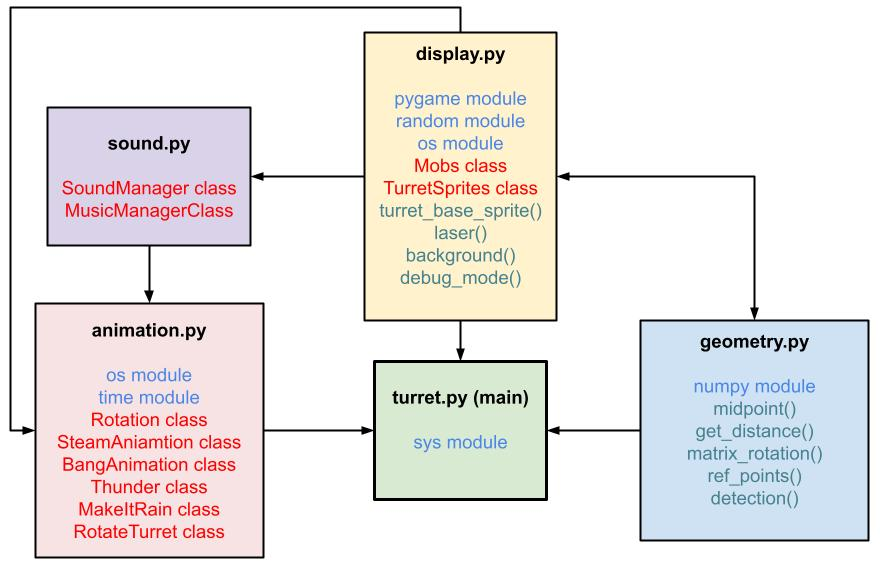
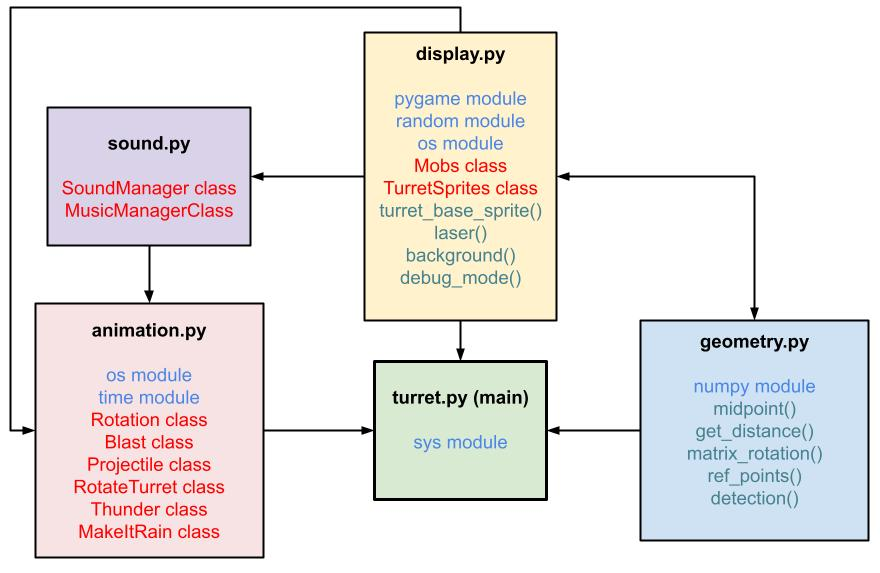
Update

Changed region(s): [[0.0614, 0.7417, 0.2761, 0.9494]]

diff --git a/functions/animation.py b/functions/animation.py
@@ -45,6 +45,7 @@ class Rotation():
       self.angle += self.rotation_speed_fire
       self.current_speed = self.rotation_speed_fire
     
+    # WORK IN PROGRESS
     if self.mode == "retract": # Ready to retract
         self.angle += self.rotation_speed_fire
         self.current_speed = self.rotation_speed_fire
@@ -56,6 +57,7 @@ class Rotation():
 rotation = Rotation()
 
 def get_rotation():
+    """ Allows other modules to retrieve the rotation object """
     return rotation
 
 # ---------- <WORK IN PROGRESS> ----------
@@ -175,6 +177,8 @@ def steam_jet(screen:pygame.surface.Surface, refs:dict,
 # ---------- </WORK IN PROGRESS> ----------
 
 class Blast(pygame.sprite.Sprite):
+    """ Blast animation """
+    
     def __init__(self):
         pygame.sprite.Sprite.__init__(self)
         
@@ -182,8 +186,8 @@ class Blast(pygame.sprite.Sprite):
         self.nb_of_sprites = self.how_many_sprites(self.folder)
         
         self.images = []
-        self.blast_played = 0
-        self.blast_sound_played = 0
+        self.blast_played = 0 # Animation counter
+        self.blast_sound_played = 0 # Sound counter
         self.target_hit = False
         
         for num in range(1, self.nb_of_sprites+1):
@@ -196,7 +200,14 @@ class Blast(pygame.sprite.Sprite):
         self.rect = self.image.get_rect()
         self.counter = 0
     
-    def arrange(self, pos:tuple):
+    def positioning(self, pos:tuple):
+        """Place the center of the explosion at the coordinates 
+        of the currently targeted mob
+
+        Args:
+            pos: Coordinates of the center of the explosion
+            (tuple or Vector2)
+        """        
         self.rect.center = pos
     
     def update(self):
@@ -238,12 +249,22 @@ blast_group = pygame.sprite.Group()
 blast_anim = Blast()
 
 def blast_launcher(screen:pygame.surface.Surface):
-    blast_anim.arrange(mobs.in_target)
+    """Launching the blast animation.
+    
+    The animation is only launched at the precise moment when 
+    the projectile comes into contact with the targeted mob. 
+    The function is called in the fire_mode() function of 
+    the RotateTurret class.
+
+    Args:
+        screen: Main Pygame surface
+    """    
+    blast_anim.positioning(mobs.in_target)
     blast_group.draw(screen)
     blast_group.update()
     blast_group.add(blast_anim)
 
-class BangAnimation():
+class Projectile():
     """Projectile animation"""
     
     def __init__(self):
@@ -252,101 +273,217 @@ class BangAnimation():
         self.current_pos = None
         self.move_vector = None
         self.speed = 3
-        self.bang_played = 0 # Animation
-        self.vals_initialized = 0
-        self.bang_sound_played = 0
-        self.retract_sound_palayed = 0
+        self.bang_played = 0 # Animation counter
+        self.bang_sound_played = 0 # Sound counter
+        self.vals_initialized = 0 # Process counter
+        self.retract_sound_palayed = 0 # WORK IN PROGRESS 
     
     def init_vals(self, start:pygame.math.Vector2, 
              target:pygame.math.Vector2):
+        """Sets constructor attribute values, like the starting 
+        and ending point of the projectile as well as calculating 
+        the direction vector
+
+        Args:
+            start: Projectile starting point coordinates
+            target: Projectile target point coordinates
+        """
+        # Since this function will be called in a local loop of 
+        # the program (the fire_mode function of the RotateTurret 
+        # class), we ensure that the values are only initialized 
+        # once
         if self.vals_initialized < 1:
             self.start_point = start
             self.target_point = target
             self.current_pos = self.start_point
             self.move_vector = self.target_point - self.start_point
+            
+            # The magnitude of the vector is normalized to 1 
+            # because we are only interested in the direction.
             self.move_vector.normalize_ip()
+            
             self.vals_initialized = 1
+            
+            # The green value of the projectile's RGB varies in 
+            # color_jump steps during the animation
             self.green_val = 200
             self.color_jump = 20
     
     def animate(self, screen:pygame.surface.Surface, start:pygame.math.Vector2, 
              target:pygame.math.Vector2, mobsObject):
+        """Start of projectile animation
+
+        Args:
+            screen: Main Pygame surface
+            start: Projectile starting point coordinates
+            target: Projectile target point coordinates
+            mobsObject: Mobs object
+        """
+
+        # Initialization of the values necessary for establishing 
+        # the trajectory
         self.init_vals(start, target)
         
         if self.bang_played < 1:
-            if bang.bang_sound_played < 1:
+            # Play sound
+            if projectile.bang_sound_played < 1:
                 sounds.play_sound("fire")
-                bang.bang_sound_played += 1
+                projectile.bang_sound_played += 1
+                
+            # We vary the green value and set random values to 
+            # the projectile radius to add a flame effect
             self.green_val = (self.green_val + self.color_jump) % 255
             radius = random.randint(2,9)
+            
+            # Movement of the projectile according to the defined 
+            # vector and speed
             self.current_pos += self.move_vector * self.speed
+            
+            # Projectile display
             pygame.draw.circle(screen, (255,self.green_val,0), (int(self.current_pos.x), 
                 int(self.current_pos.y)), radius)
 
+            # The projectile has reached its destination, we add a 
+            # proximity margin to ensure that the point will not 
+            # be skipped
             if self.current_pos.distance_to(self.target_point) < 5:
-                self.bang_played = 1
+                self.bang_played = 1 # Animation counter
+                
+                # The targeted projectile is transformed into 
+                # debris so that the turret remains aligned until 
+                # the explosion animation ends
                 mobsObject.destroyed_mob()
+                
+                # Signal sent to the Blast class object to let it 
+                # know that the explosion can take place. The 
+                # fire_mode() function of the Rotate Turret class 
+                # will be responsible for launching it
                 blast_anim.target_hit = True
+                
+                # Play blast sound
                 if not sounds.in_playing("blast"):
                     sounds.play_sound("blast")
                     blast_anim.blast_sound_played+=1
 
-bang = BangAnimation()
+projectile = Projectile()
 
 class RotateTurret:
+    """Turns the turret according to the different rotation modes 
+    (sentinel, alert, fire). These modes are defined by the 
+    Rotation class"""
+    
     def __init__(self):
         self.turret_mode = None
         self.turret_image = None
         self.deploy_sound_played = 0
+    
+    def reset_states(self):
+        """Reset all state variables when resuming sentinel mode"""
         
-    def sentinel_mode(self, turretObject, mobsObject):
+        # Blast class
         blast_anim.target_hit = False
         blast_anim.blast_played = 0
         blast_anim.blast_sound_played = 0
-        bang.bang_sound_played = 0
-        steam_anim.steam_played = 0
-        bang.vals_initialized = 0
-        bang.bang_played = 0
-        self.deploy_sound_played = 0
-        mobsObject.in_target = None
         
+        # Projectile class
+        projectile.bang_sound_played = 0
+        projectile.vals_initialized = 0
+        projectile.bang_played = 0
+        
+        self.deploy_sound_played = 0
+        steam_anim.steam_played = 0 # WORK IN PROGRESS
+        
+    def sentinel_mode(self, turretObject, mobsObject):
+        """The turret is searching for a target
+
+        Args:
+            turretObject: TurretSprites object (from display module)
+            mobsObject: Mobs object (from display module)
+        """
+        self.reset_states() # Resetting all state variables
+        mobsObject.in_target = None # No target 
+        
+        # Play sentinel sound
         if not sounds.in_playing("sentinel"):
             sounds.play_sound("sentinel")
         
+        # Set turret sprite
         self.turret_image = turretObject.turret_sentinel
     
     def alert_mode(self, turretObject) -> None:
-        sounds.stop_sound("sentinel")
+        """The turret laser has detected a mob
+
+        Args:
+            turretObject: TurretSprites object (from display module)
+        """        
+        sounds.stop_sound("sentinel") # Stop sentinel sound
+        
+        # Play alert sound
         if not sounds.in_playing("alert"):
             sounds.play_sound("alert")
-            
+        
+        # Set turret sprite
         self.turret_image = turretObject.turret_alert
     
     def fire_mode(self, screen:pygame.surface.Surface, 
-                  turretObject, mobsObject, refs:dict) -> None: 
+                  turretObject, mobsObject, refs:dict) -> None:
+        """The turret cannon is aligned with the mob.
+        
+        The Rotation class sets the fire mode rotation speed 
+        to 0.0, i.e. the turret is stationary. This mode launches 
+        the projectile animation as well as the blast animation
+
+        Args:
+            screen: Main Pygame surface
+            turretObject: TurretSprites object (from display module)
+            mobsObject : Mobs object (from display module) 
+            refs (dict): All referential points
+        """
+        # Sounds to stop
         sounds.stop_sound("alert")
         sounds.stop_sound("sentinel")
+        
+        # Set turret sprite
         self.turret_image = turretObject.turret_fire
+        
+        # Play deploy sound
         if self.deploy_sound_played < 1:
             sounds.play_sound("deploy")
             self.deploy_sound_played+=1
         
+        # When the sound deploy is finished, the projectile 
+        # animation is started
         if not sounds.in_playing("deploy"):
-            #steam_jet(screen, refs, rotationObject)
-            bang.animate(screen, refs["cannon"], mobsObject.in_target, mobsObject)
+            #steam_jet(screen, refs, rotationObject) # WIP
+            projectile.animate(screen, refs["cannon"], mobsObject.in_target, mobsObject)
 
+        # The projectile has reached the coordinates of the mob, 
+        # the blast animation can be started
         if blast_anim.target_hit and blast_anim.blast_played < 1:
             blast_launcher(screen)
         
     def rotate(self, screen:pygame.surface.Surface, 
                turretObject,rotationObject:Rotation, 
                mobsObject, refs:dict) -> None:
+        """Rotates the turret according to the angle and speed 
+        determined by the Rotation class
+
+        Args:
+            screen: Main Pygame surface
+            turretObject: TurretSprites object (from display module)
+            rotationObject: Rotation object
+            mobsObject: Mobs object (from display module)
+            refs: All referential points
+        """        
         
+        # Get the main surface size
         WIDTH = screen.get_width()
         HEIGHT = screen.get_height()
         
+        # Get the rotation mode from the Rotation object
         self.turret_mode = rotationObject.mode
         
+        # Launching the function according to the rotation mode
         if self.turret_mode == "sentinel":
             self.sentinel_mode(turretObject, mobsObject)
         
@@ -357,14 +494,19 @@ class RotateTurret:
             self.fire_mode(screen, turretObject,
                            mobsObject, refs)
         
+        # Turret positioning
         turret_rect = self.turret_image.get_rect()
         turret_rect.center = (WIDTH//2, HEIGHT//2)
         
+        # Turret surface and rect rotation
         rotated_surface = pygame.transform.rotate(self.turret_image, rotationObject.angle)
         rotated_rect = rotated_surface.get_rect(center=turret_rect.center)
         
+        # Display
         screen.blit(rotated_surface, rotated_rect)
         
+        # The angle value is incremented by a value defined by 
+        # the actual Rotation class mode
         rotationObject.rotate()
 
 class Thunder():

diff --git a/functions/display.py b/functions/display.py
@@ -278,14 +278,22 @@ def background() -> pygame.surface.Surface:
     
     return background_img
 
-def seconds_to_hms(seconds):
-        hours, remainder = divmod(seconds, 3600)
-        minutes, seconds = divmod(remainder, 60)
+def seconds_to_hms(seconds:float) -> str:
+    """Convert seconds to hh:mm:ss format
 
-        # Formating
-        formatted_time = "{:02}:{:02}:{:06.3f}".format(int(hours), int(minutes), seconds)
+    Args:
+        seconds: Seconds value (time.time())
 
-        return formatted_time
+    Returns:
+        str: seconds in hh:mm:ss format
+    """    
+    hours, remainder = divmod(seconds, 3600)
+    minutes, seconds = divmod(remainder, 60)
+
+    # Formating
+    formatted_time = "{:02}:{:02}:{:06.3f}".format(int(hours), int(minutes), seconds)
+
+    return formatted_time
 
 def debug_mode(screen:pygame.surface.Surface, refs:dict,
                turret_base:pygame.rect.Rect, 

diff --git a/turret.py b/turret.py
@@ -10,7 +10,8 @@ from functions.sound import MusicManager
 pygame.init()
 
 # Main surface initialisation
-WIDTH, HEIGHT = 1200, 800
+# Support for resolution changes will be added in a future release 
+WIDTH, HEIGHT = 1200, 800 # DEFAULT : 1200, 800
 screen = pygame.display.set_mode((WIDTH, HEIGHT))
 pygame.display.set_caption("Turret")
 
@@ -24,9 +25,9 @@ sounds = get_sounds()
 thunder = get_thunder()
 turret_rotation = RotateTurret()
 
-debug = False
-rain = True
-music_on = True
+debug = True
+rain = False
+music_on = False
 clock = pygame.time.Clock()
 fps = 60
 
